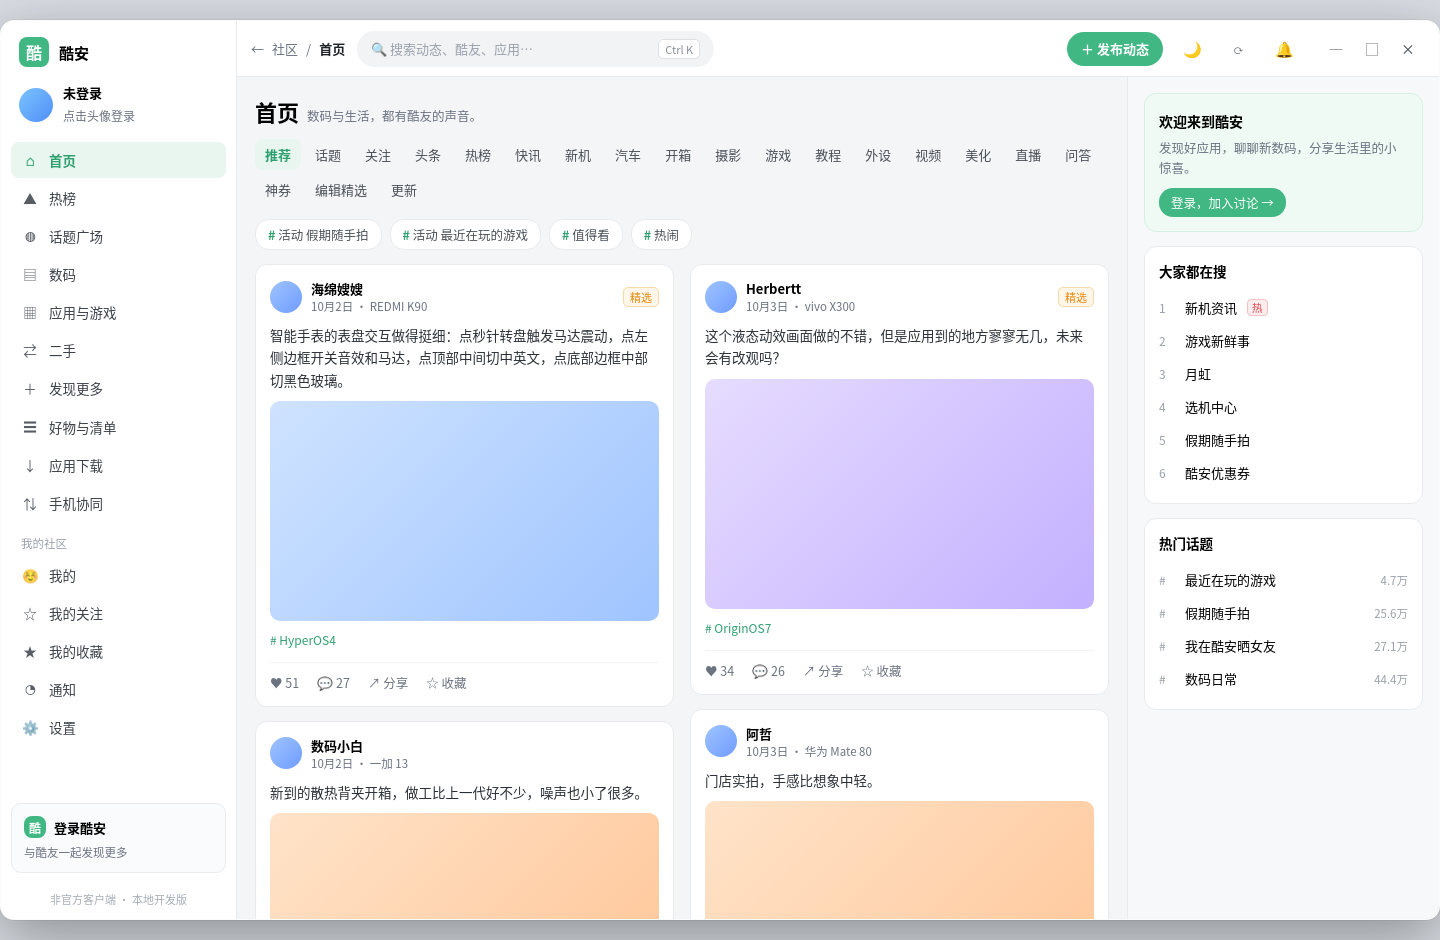
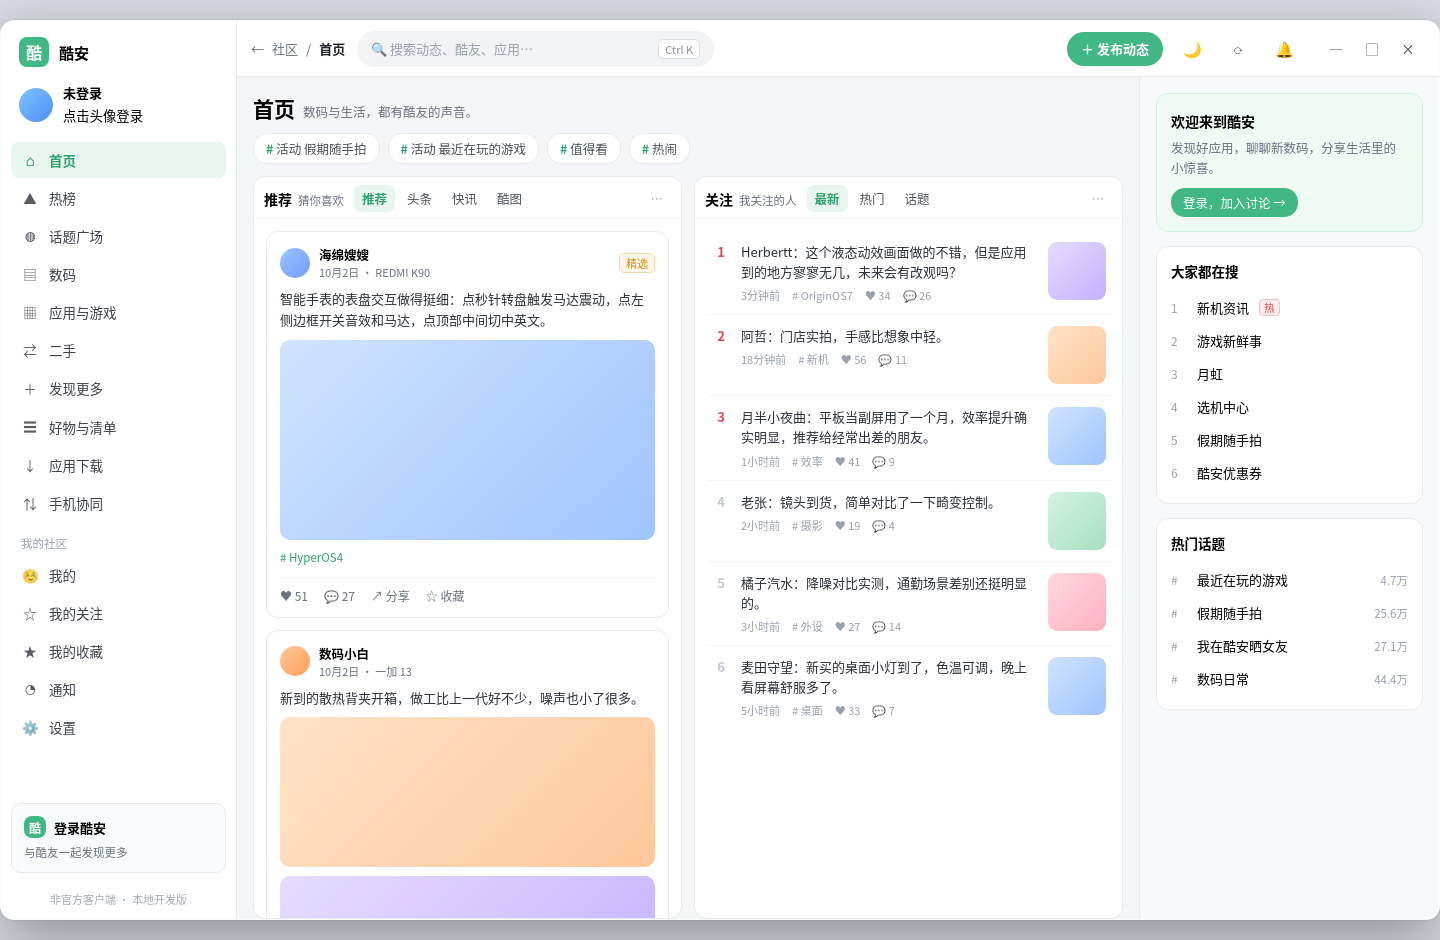
界面稿 v2：中间改为两个不同内容的独立信息流并排（左推荐卡片流 / 右关注列表流）

diff --git a/prototype/home.html b/prototype/home.html
@@ -2,7 +2,7 @@
 <html lang="zh-CN">
 <head>
 <meta charset="utf-8">
-<title>酷安 · 首页（界面稿）</title>
+<title>酷安 · 首页（界面稿 v2）</title>
 <style>
   * { box-sizing: border-box; margin: 0; padding: 0; }
   html, body { height: 100%; }
@@ -33,7 +33,6 @@
   .brand b { font-size:15px; }
   .avatar-row { display:flex; align-items:center; gap:10px; padding:4px 18px 12px; }
   .avatar { width:34px;height:34px;border-radius:50%;background:linear-gradient(135deg,#7cc4ff,#4f8ef7); }
-  .avatar ~ div small { color:var(--txt2); font-size:12px; }
   .nav { flex:1; overflow-y:auto; padding:4px 10px; }
   .nav a { display:flex; align-items:center; gap:10px; padding:8px 10px; border-radius:8px;
            color:#3c4149; text-decoration:none; font-size:13.5px; margin-bottom:2px; }
@@ -41,8 +40,7 @@
   .nav a.on { background:#e8f6ef; color:var(--green-d); font-weight:600; }
   .nav .ic { width:18px; text-align:center; opacity:.85; }
   .nav .grp { font-size:11.5px; color:#9aa1ab; padding:12px 10px 6px; }
-  .side .login { margin:10px; padding:12px; border:1px solid var(--line); border-radius:10px;
-                 background:#fafbfc; }
+  .side .login { margin:10px; padding:12px; border:1px solid var(--line); border-radius:10px; background:#fafbfc; }
   .side .login .t { display:flex; align-items:center; gap:8px; font-size:13px; font-weight:600; }
   .side .login .s { font-size:11.5px; color:var(--txt2); margin-top:6px; }
   .side .ver { font-size:11px; color:#a6adb7; text-align:center; padding:8px 0 12px; }
@@ -71,48 +69,61 @@
   .win i.close:hover { background:#e5484d; color:#fff; }
 
   .body { flex:1; display:flex; min-height:0; }
-  .content { flex:1; min-width:0; display:flex; flex-direction:column; padding:18px 18px 0; }
-  .content h1 { font-size:22px; }
+  .content { flex:1; min-width:0; display:flex; flex-direction:column; padding:16px 16px 0; }
+  .content h1 { font-size:21px; }
   .content h1 .sub { font-size:12.5px; color:var(--txt2); font-weight:400; margin-left:8px; }
-  .tabs { display:flex; flex-wrap:wrap; gap:4px; margin:12px 0 4px; }
-  .tabs span { padding:6px 10px; font-size:13px; color:#4b5158; border-radius:8px; }
-  .tabs span.on { color:var(--green-d); font-weight:600; background:#e8f6ef; }
-  .tabs span:hover { background:#f2f4f6; }
-  .quick { display:flex; gap:8px; margin:10px 0 14px; }
+  .quick { display:flex; gap:8px; margin:10px 0 12px; }
   .quick a { font-size:12.5px; color:#4b5158; background:#fff; border:1px solid var(--line);
              border-radius:14px; padding:5px 12px; text-decoration:none; }
   .quick a b { color:var(--green-d); }
 
-  /* ============ 两个瀑布流：各自独立滚动 ============ */
-  .feeds { flex:1; min-height:0; display:flex; gap:16px; }
-  .feed { flex:1 1 0; min-width:0; overflow-y:auto; padding-bottom:18px; }
+  /* ============ 两个「不同内容」的信息流并排，各自独立滚动 ============ */
+  .feeds { flex:1; min-height:0; display:flex; gap:12px; }
+  .pane { flex:1 1 0; min-width:0; display:flex; flex-direction:column;
+          background:#fff; border:1px solid var(--line); border-radius:12px; overflow:hidden; }
+  .pane-head { flex:0 0 auto; display:flex; align-items:center; gap:4px; padding:8px 10px 6px;
+               border-bottom:1px solid #f1f3f5; }
+  .pane-head .ttl { font-size:14px; font-weight:700; margin-right:6px; }
+  .pane-head .ttl small { font-weight:400; font-size:11.5px; color:var(--txt2); margin-left:6px; }
+  .pane-head a { font-size:12.5px; color:#4b5158; text-decoration:none; padding:4px 8px; border-radius:7px; }
+  .pane-head a.on { color:var(--green-d); font-weight:600; background:#e8f6ef; }
+  .pane-head a:hover { background:#f2f4f6; }
+  .pane-head .more { margin-left:auto; color:#9aa1ab; }
+  .feed { flex:1; min-height:0; overflow-y:auto; padding:12px 12px 4px; }
   .feed::-webkit-scrollbar { width:8px; }
   .feed::-webkit-scrollbar-thumb { background:#d3d7dd; border-radius:4px; }
   .feed::-webkit-scrollbar-thumb:hover { background:#b9bfc7; }
   .feed::-webkit-scrollbar-track { background:transparent; }
-
-  .card { background:#fff; border:1px solid var(--line); border-radius:12px; padding:14px;
-          margin-bottom:14px; }
+  /* 左栏：卡片流 */
+  .card { background:#fff; border:1px solid var(--line); border-radius:12px; padding:13px; margin-bottom:12px; }
   .card .u { display:flex; align-items:center; gap:9px; }
-  .card .u .a { width:32px;height:32px;border-radius:50%; }
-  .card .u .n { font-size:13px; font-weight:600; }
-  .card .u .m { font-size:11.5px; color:var(--txt2); }
+  .card .u .a { width:30px;height:30px;border-radius:50%; }
+  .card .u .n { font-size:12.5px; font-weight:600; }
+  .card .u .m { font-size:11px; color:var(--txt2); }
   .card .u .fav { margin-left:auto; font-size:11px; color:#e8890c; border:1px solid #f6d9a8;
                   background:#fef6e9; border-radius:5px; padding:1px 6px; }
-  .card p { font-size:13.5px; line-height:1.65; color:#2b3038; margin:10px 0 0; }
-  .card .ph { border-radius:10px; margin-top:10px; background:#eef0f3; }
-  .card .ph.g1 { background:linear-gradient(135deg,#cfe3ff,#9fc4ff); }
-  .card .ph.g2 { background:linear-gradient(135deg,#ffe3c9,#ffc79a); }
-  .card .ph.g3 { background:linear-gradient(135deg,#d5f2e3,#a5e0c4); }
-  .card .ph.g4 { background:linear-gradient(135deg,#e6dcff,#c3b0ff); }
-  .card .ph.g5 { background:linear-gradient(135deg,#ffd9e0,#ffb0bf); }
-  .card .tag { display:inline-block; font-size:12px; color:var(--green-d); margin-top:10px; }
-  .card .acts { display:flex; gap:18px; margin-top:12px; padding-top:10px; border-top:1px solid #f1f3f5;
-                font-size:12.5px; color:var(--txt2); }
-  .card .acts span:hover { color:var(--green-d); }
+  .card p { font-size:13px; line-height:1.6; color:#2b3038; margin:9px 0 0; }
+  .card .ph { border-radius:10px; margin-top:9px; }
+  .g1 { background:linear-gradient(135deg,#cfe3ff,#9fc4ff); }
+  .g2 { background:linear-gradient(135deg,#ffe3c9,#ffc79a); }
+  .g3 { background:linear-gradient(135deg,#d5f2e3,#a5e0c4); }
+  .g4 { background:linear-gradient(135deg,#e6dcff,#c3b0ff); }
+  .g5 { background:linear-gradient(135deg,#ffd9e0,#ffb0bf); }
+  .card .tag { display:inline-block; font-size:11.5px; color:var(--green-d); margin-top:9px; }
+  .card .acts { display:flex; gap:16px; margin-top:10px; padding-top:9px; border-top:1px solid #f1f3f5;
+                font-size:12px; color:var(--txt2); }
+  /* 右栏：另一种信息流（简洁列表式，跟左栏明显不同） */
+  .row { display:flex; gap:10px; padding:11px 4px; border-bottom:1px solid #f4f6f8; }
+  .row:last-child { border-bottom:0; }
+  .row .rank { width:20px; text-align:center; font-size:13px; font-weight:700; color:#c2c8d0; }
+  .row .rank.top { color:#e5484d; }
+  .row .mid { flex:1; min-width:0; }
+  .row .mid .t { font-size:13px; line-height:1.55; color:#2b3038; }
+  .row .mid .meta { font-size:11px; color:#9aa1ab; margin-top:5px; display:flex; gap:12px; }
+  .row .thumb { width:58px; height:58px; border-radius:9px; flex:0 0 58px; }
 
   /* ============ 右侧栏 ============ */
-  .right { width:312px; flex:0 0 312px; overflow-y:auto; background:#f7f8fa;
+  .right { width:300px; flex:0 0 300px; overflow-y:auto; background:#f7f8fa;
            border-left:1px solid var(--line); padding:16px; }
   .welcome { background:#effaf4; border:1px solid #d5f0e2; border-radius:12px; padding:14px; }
   .welcome b { font-size:14px; }
@@ -177,13 +188,6 @@
       <section class="content">
         <h1>首页<span class="sub">数码与生活，都有酷友的声音。</span></h1>
 
-        <div class="tabs">
-          <span class="on">推荐</span><span>话题</span><span>关注</span><span>头条</span><span>热榜</span>
-          <span>快讯</span><span>新机</span><span>汽车</span><span>开箱</span><span>摄影</span>
-          <span>游戏</span><span>教程</span><span>外设</span><span>视频</span><span>美化</span>
-          <span>直播</span><span>问答</span><span>神券</span><span>编辑精选</span><span>更新</span>
-        </div>
-
         <div class="quick">
           <a href="#"><b>#</b> 活动 假期随手拍</a>
           <a href="#"><b>#</b> 活动 最近在玩的游戏</a>
@@ -191,10 +195,29 @@
           <a href="#"><b>#</b> 热闹</a>
         </div>
 
-        <!-- 两个瀑布流，各自独立滚动 -->
+        <!-- 两个不同内容的信息流并排，各自独立滚动 -->
         <div class="feeds">
-          <div class="feed" id="feedA"></div>
-          <div class="feed" id="feedB"></div>
+
+          <!-- 信息流 ①：推荐（卡片流） -->
+          <div class="pane">
+            <div class="pane-head">
+              <div class="ttl">推荐<small>猜你喜欢</small></div>
+              <a class="on" href="#">推荐</a><a href="#">头条</a><a href="#">快讯</a><a href="#">酷图</a>
+              <a class="more" href="#">⋯</a>
+            </div>
+            <div class="feed" id="feedA"></div>
+          </div>
+
+          <!-- 信息流 ②：关注（列表流，内容与左栏完全不同） -->
+          <div class="pane">
+            <div class="pane-head">
+              <div class="ttl">关注<small>我关注的人</small></div>
+              <a class="on" href="#">最新</a><a href="#">热门</a><a href="#">话题</a>
+              <a class="more" href="#">⋯</a>
+            </div>
+            <div class="feed" id="feedB"></div>
+          </div>
+
         </div>
       </section>
 
@@ -226,43 +249,49 @@
 </div>
 
 <script>
-// 纯展示用假数据：两列各自独立滚动，互不干涉
-const A = [
-  {n:'海绵嫂嫂', m:'10月2日 · REDMI K90', fav:1, t:'智能手表的表盘交互做得挺细：点秒针转盘触发马达震动，点左侧边框开关音效和马达，点顶部中间切中英文，点底部边框中部切黑色玻璃。',
-   imgs:[['g1',220]], tag:'# HyperOS4', z:51, c:27},
+// 假数据：左＝推荐（图文卡片），右＝关注（短动态列表）—— 两个完全不同的信息流
+const 推荐 = [
+  {n:'海绵嫂嫂', m:'10月2日 · REDMI K90', fav:1,
+   t:'智能手表的表盘交互做得挺细：点秒针转盘触发马达震动，点左侧边框开关音效和马达，点顶部中间切中英文。',
+   imgs:[['g1',200]], tag:'# HyperOS4', z:51, c:27},
   {n:'数码小白', m:'10月2日 · 一加 13', t:'新到的散热背夹开箱，做工比上一代好不少，噪声也小了很多。',
-   imgs:[['g2',160],['g4',160]], tag:'# 开箱', z:23, c:6},
+   imgs:[['g2',150],['g4',150]], tag:'# 开箱', z:23, c:6},
   {n:'夜行者', m:'10月1日 · iPhone 17 Pro', t:'夜景样张一组，这次主摄的算法确实稳，高光压得比之前好。',
-   imgs:[['g5',260]], tag:'# 摄影', z:88, c:19},
-  {n:'不吃香菜', m:'9月30日 · 小米 15', t:'更新完新系统，动画流畅度有提升，但是耗电好像快了那么一点点。',
+   imgs:[['g5',240]], tag:'# 摄影', z:88, c:19},
+  {n:'不吃香菜', m:'9月30日 · 小米 15', t:'更新完新系统，动画流畅度有提升，但耗电好像快了那么一点点。',
    imgs:[], tag:'# 数码日常', z:12, c:31},
   {n:'键盘上的猫', m:'9月29日 · 机械键盘', t:'客制化键盘终于组装完成，手感非常满意。',
-   imgs:[['g3',200]], tag:'# 外设', z:34, c:8},
+   imgs:[['g3',190]], tag:'# 外设', z:34, c:8},
 ];
-const B = [
-  {n:'Herbertt', m:'10月3日 · vivo X300', fav:1, t:'这个液态动效画面做的不错，但是应用到的地方寥寥无几，未来会有改观吗？',
-   imgs:[['g4',230]], tag:'# OriginOS7', z:34, c:26},
-  {n:'阿哲', m:'10月3日 · 华为 Mate 80', t:'门店实拍，手感比想象中轻。',
-   imgs:[['g2',190],['g5',150]], tag:'# 新机', z:56, c:11},
-  {n:'月半小夜曲', m:'10月2日 · 平板', t:'平板当副屏用了一个月，效率提升确实明显，推荐给经常出差的朋友。',
-   imgs:[['g1',150]], tag:'# 效率', z:41, c:9},
-  {n:'老张', m:'10月1日 · 相机', t:'镜头到货，简单对比了一下畸变控制。',
-   imgs:[['g3',250],['g2',140]], tag:'# 摄影', z:19, c:4},
-  {n:'橘子汽水', m:'9月30日 · 耳机', t:'降噪对比实测，通勤场景差别还挺明显的。',
-   imgs:[['g5',170]], tag:'# 外设', z:27, c:14},
+const 关注 = [
+  {n:'Herbertt', t:'这个液态动效画面做的不错，但是应用到的地方寥寥无几，未来会有改观吗？', tag:'# OriginOS7', tm:'3分钟前', z:34, c:26, g:'g4'},
+  {n:'阿哲', t:'门店实拍，手感比想象中轻。', tag:'# 新机', tm:'18分钟前', z:56, c:11, g:'g2'},
+  {n:'月半小夜曲', t:'平板当副屏用了一个月，效率提升确实明显，推荐给经常出差的朋友。', tag:'# 效率', tm:'1小时前', z:41, c:9, g:'g1'},
+  {n:'老张', t:'镜头到货，简单对比了一下畸变控制。', tag:'# 摄影', tm:'2小时前', z:19, c:4, g:'g3'},
+  {n:'橘子汽水', t:'降噪对比实测，通勤场景差别还挺明显的。', tag:'# 外设', tm:'3小时前', z:27, c:14, g:'g5'},
+  {n:'麦田守望', t:'新买的桌面小灯到了，色温可调，晚上看屏幕舒服多了。', tag:'# 桌面', tm:'5小时前', z:33, c:7, g:'g1'},
 ];
-function card(d){
+const av = ['#9fc4ff,#6f9cff','#ffc79a,#ff9f5a','#a5e0c4,#5cc79a','#c3b0ff,#9a7cff','#ffb0bf,#ff8296'];
+function cardA(d,i){
   const imgs = d.imgs.map(([g,h])=>`<div class="ph ${g}" style="height:${h}px"></div>`).join('');
   return `<div class="card">
-    <div class="u"><div class="a" style="background:linear-gradient(135deg,#9fc4ff,#6f9cff)"></div>
+    <div class="u"><div class="a" style="background:linear-gradient(135deg,${av[i%5]})"></div>
       <div><div class="n">${d.n}</div><div class="m">${d.m}</div></div>
       ${d.fav?'<span class="fav">精选</span>':''}</div>
     <p>${d.t}</p>${imgs}<div class="tag">${d.tag}</div>
     <div class="acts"><span>♥ ${d.z}</span><span>💬 ${d.c}</span><span>↗ 分享</span><span>☆ 收藏</span></div>
   </div>`;
 }
-document.getElementById('feedA').innerHTML = A.map(card).join('');
-document.getElementById('feedB').innerHTML = B.map(card).join('');
+function cardB(d,i){
+  return `<div class="row">
+    <div class="rank ${i<3?'top':''}">${i+1}</div>
+    <div class="mid"><div class="t">${d.n}：${d.t}</div>
+      <div class="meta"><span>${d.tm}</span><span>${d.tag}</span><span>♥ ${d.z}</span><span>💬 ${d.c}</span></div></div>
+    <div class="thumb ${d.g}"></div>
+  </div>`;
+}
+document.getElementById('feedA').innerHTML = 推荐.map(cardA).join('');
+document.getElementById('feedB').innerHTML = 关注.map(cardB).join('');
 </script>
 </body>
 </html>
